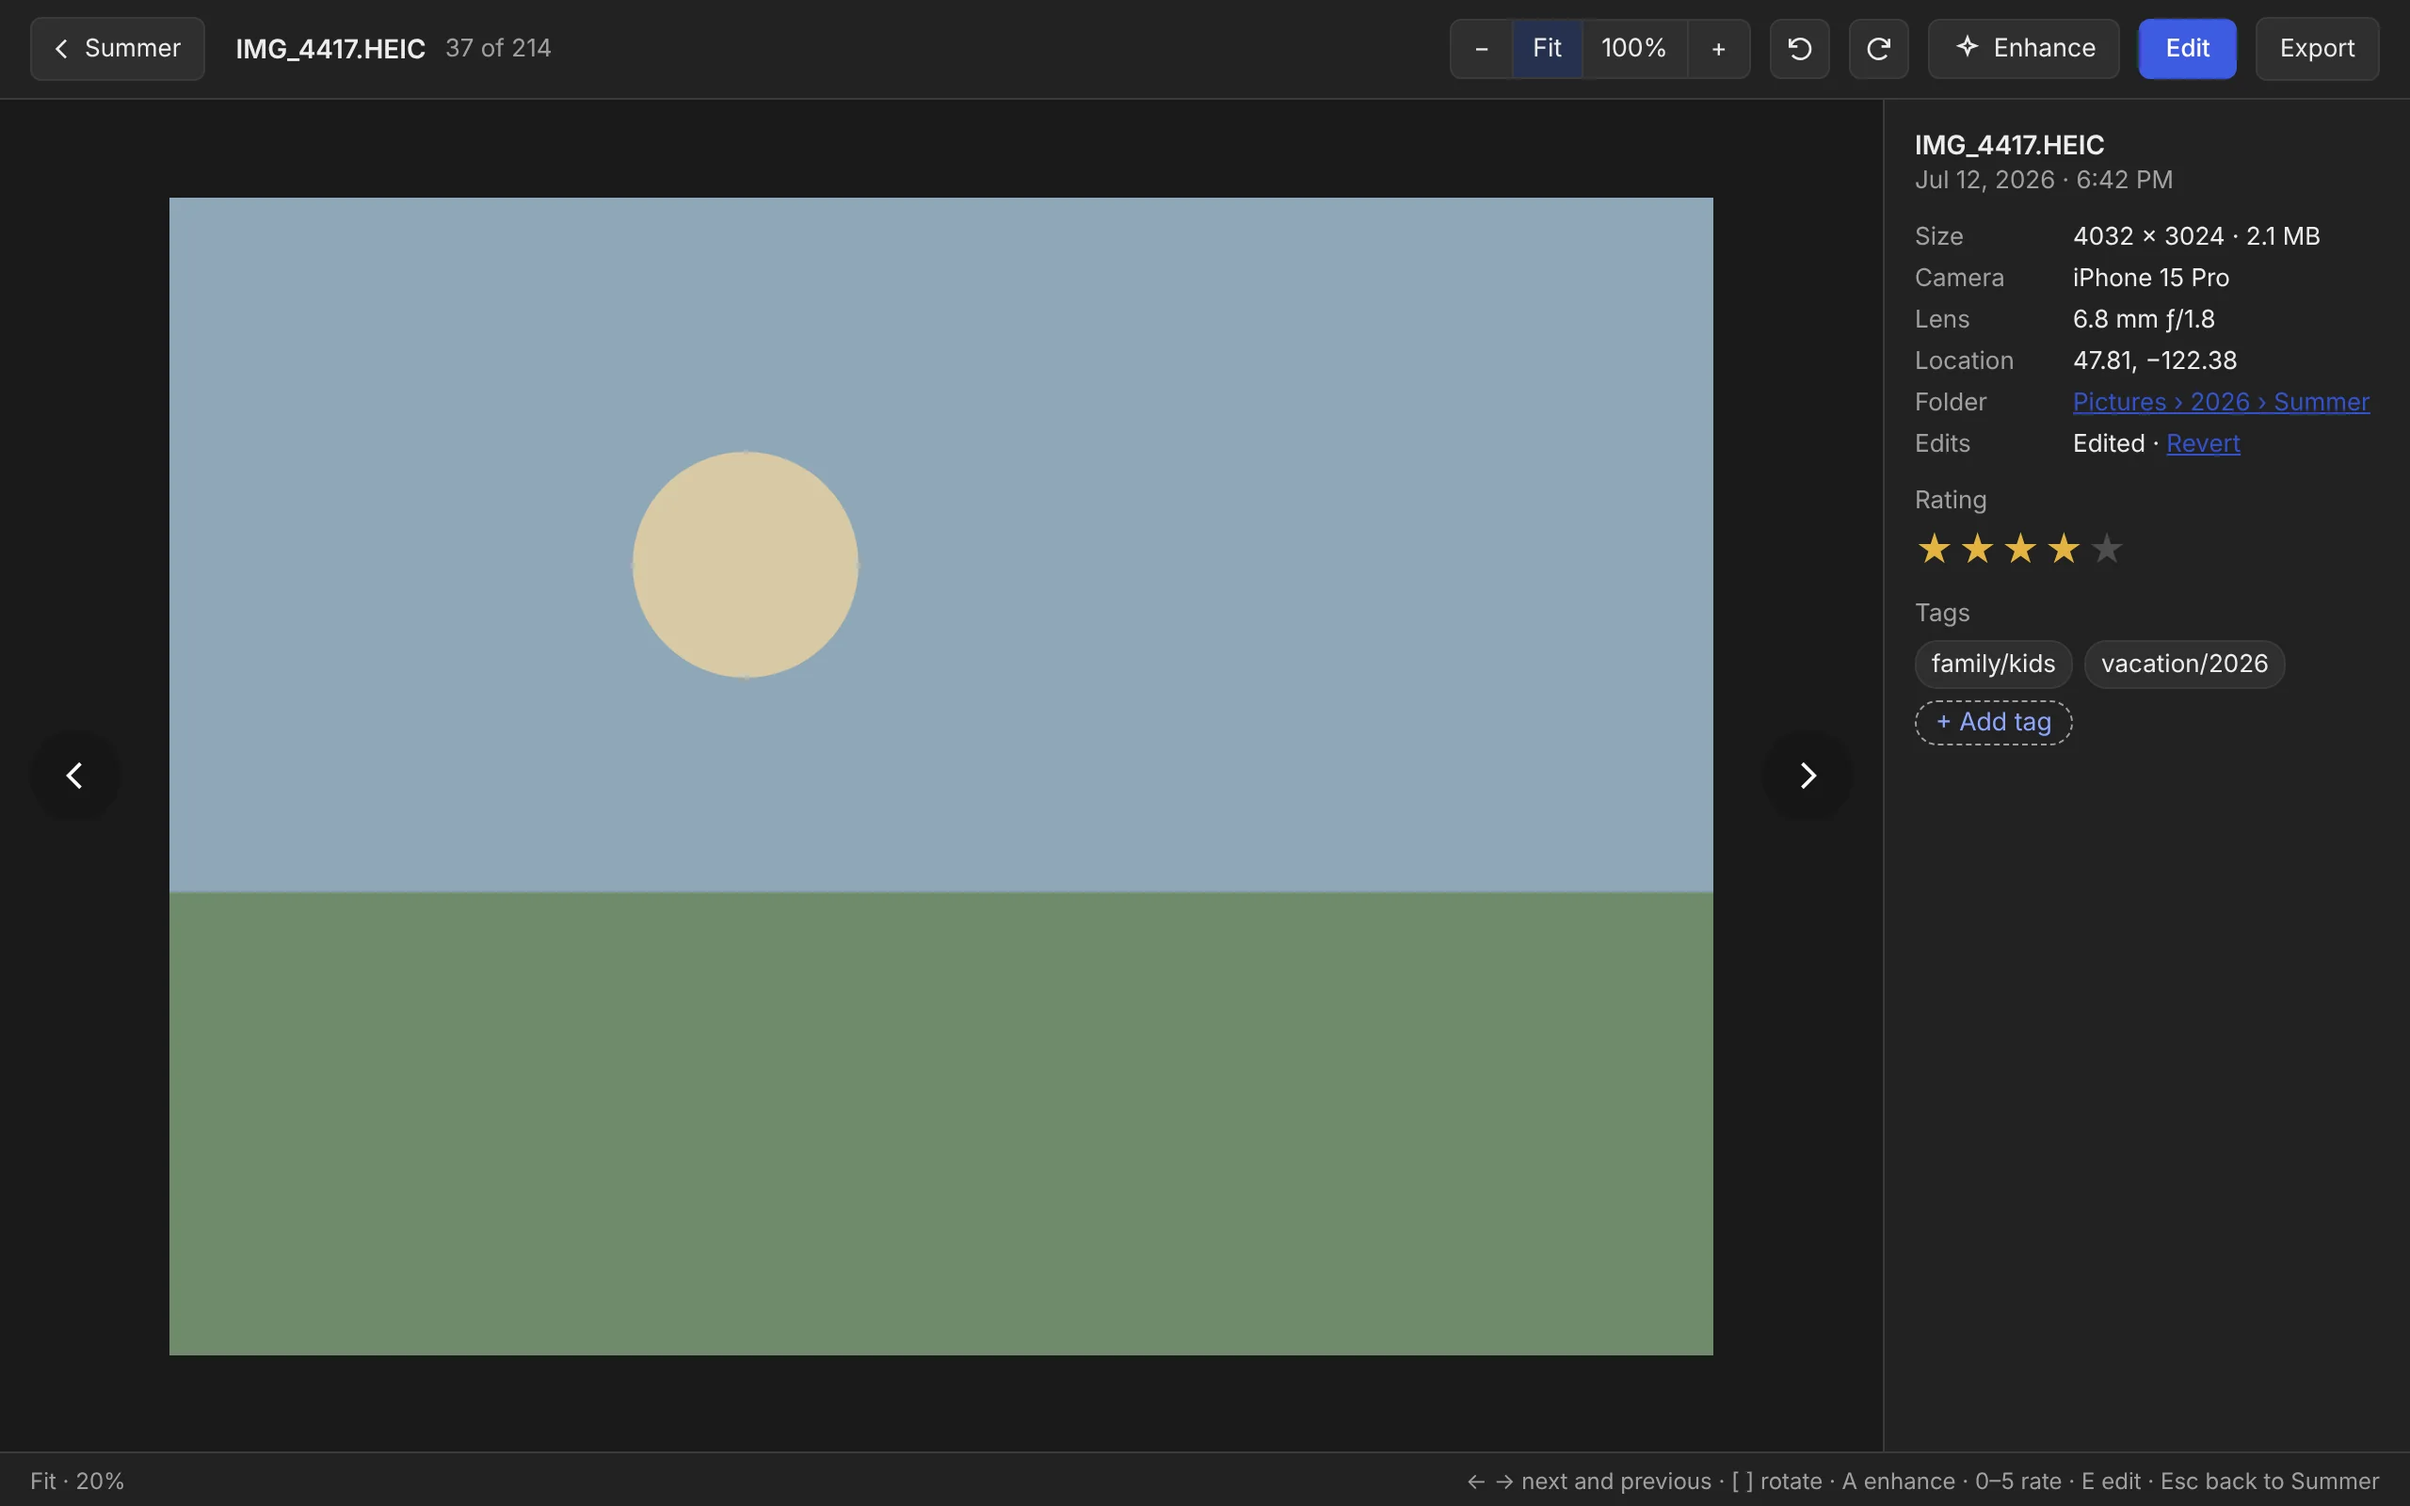
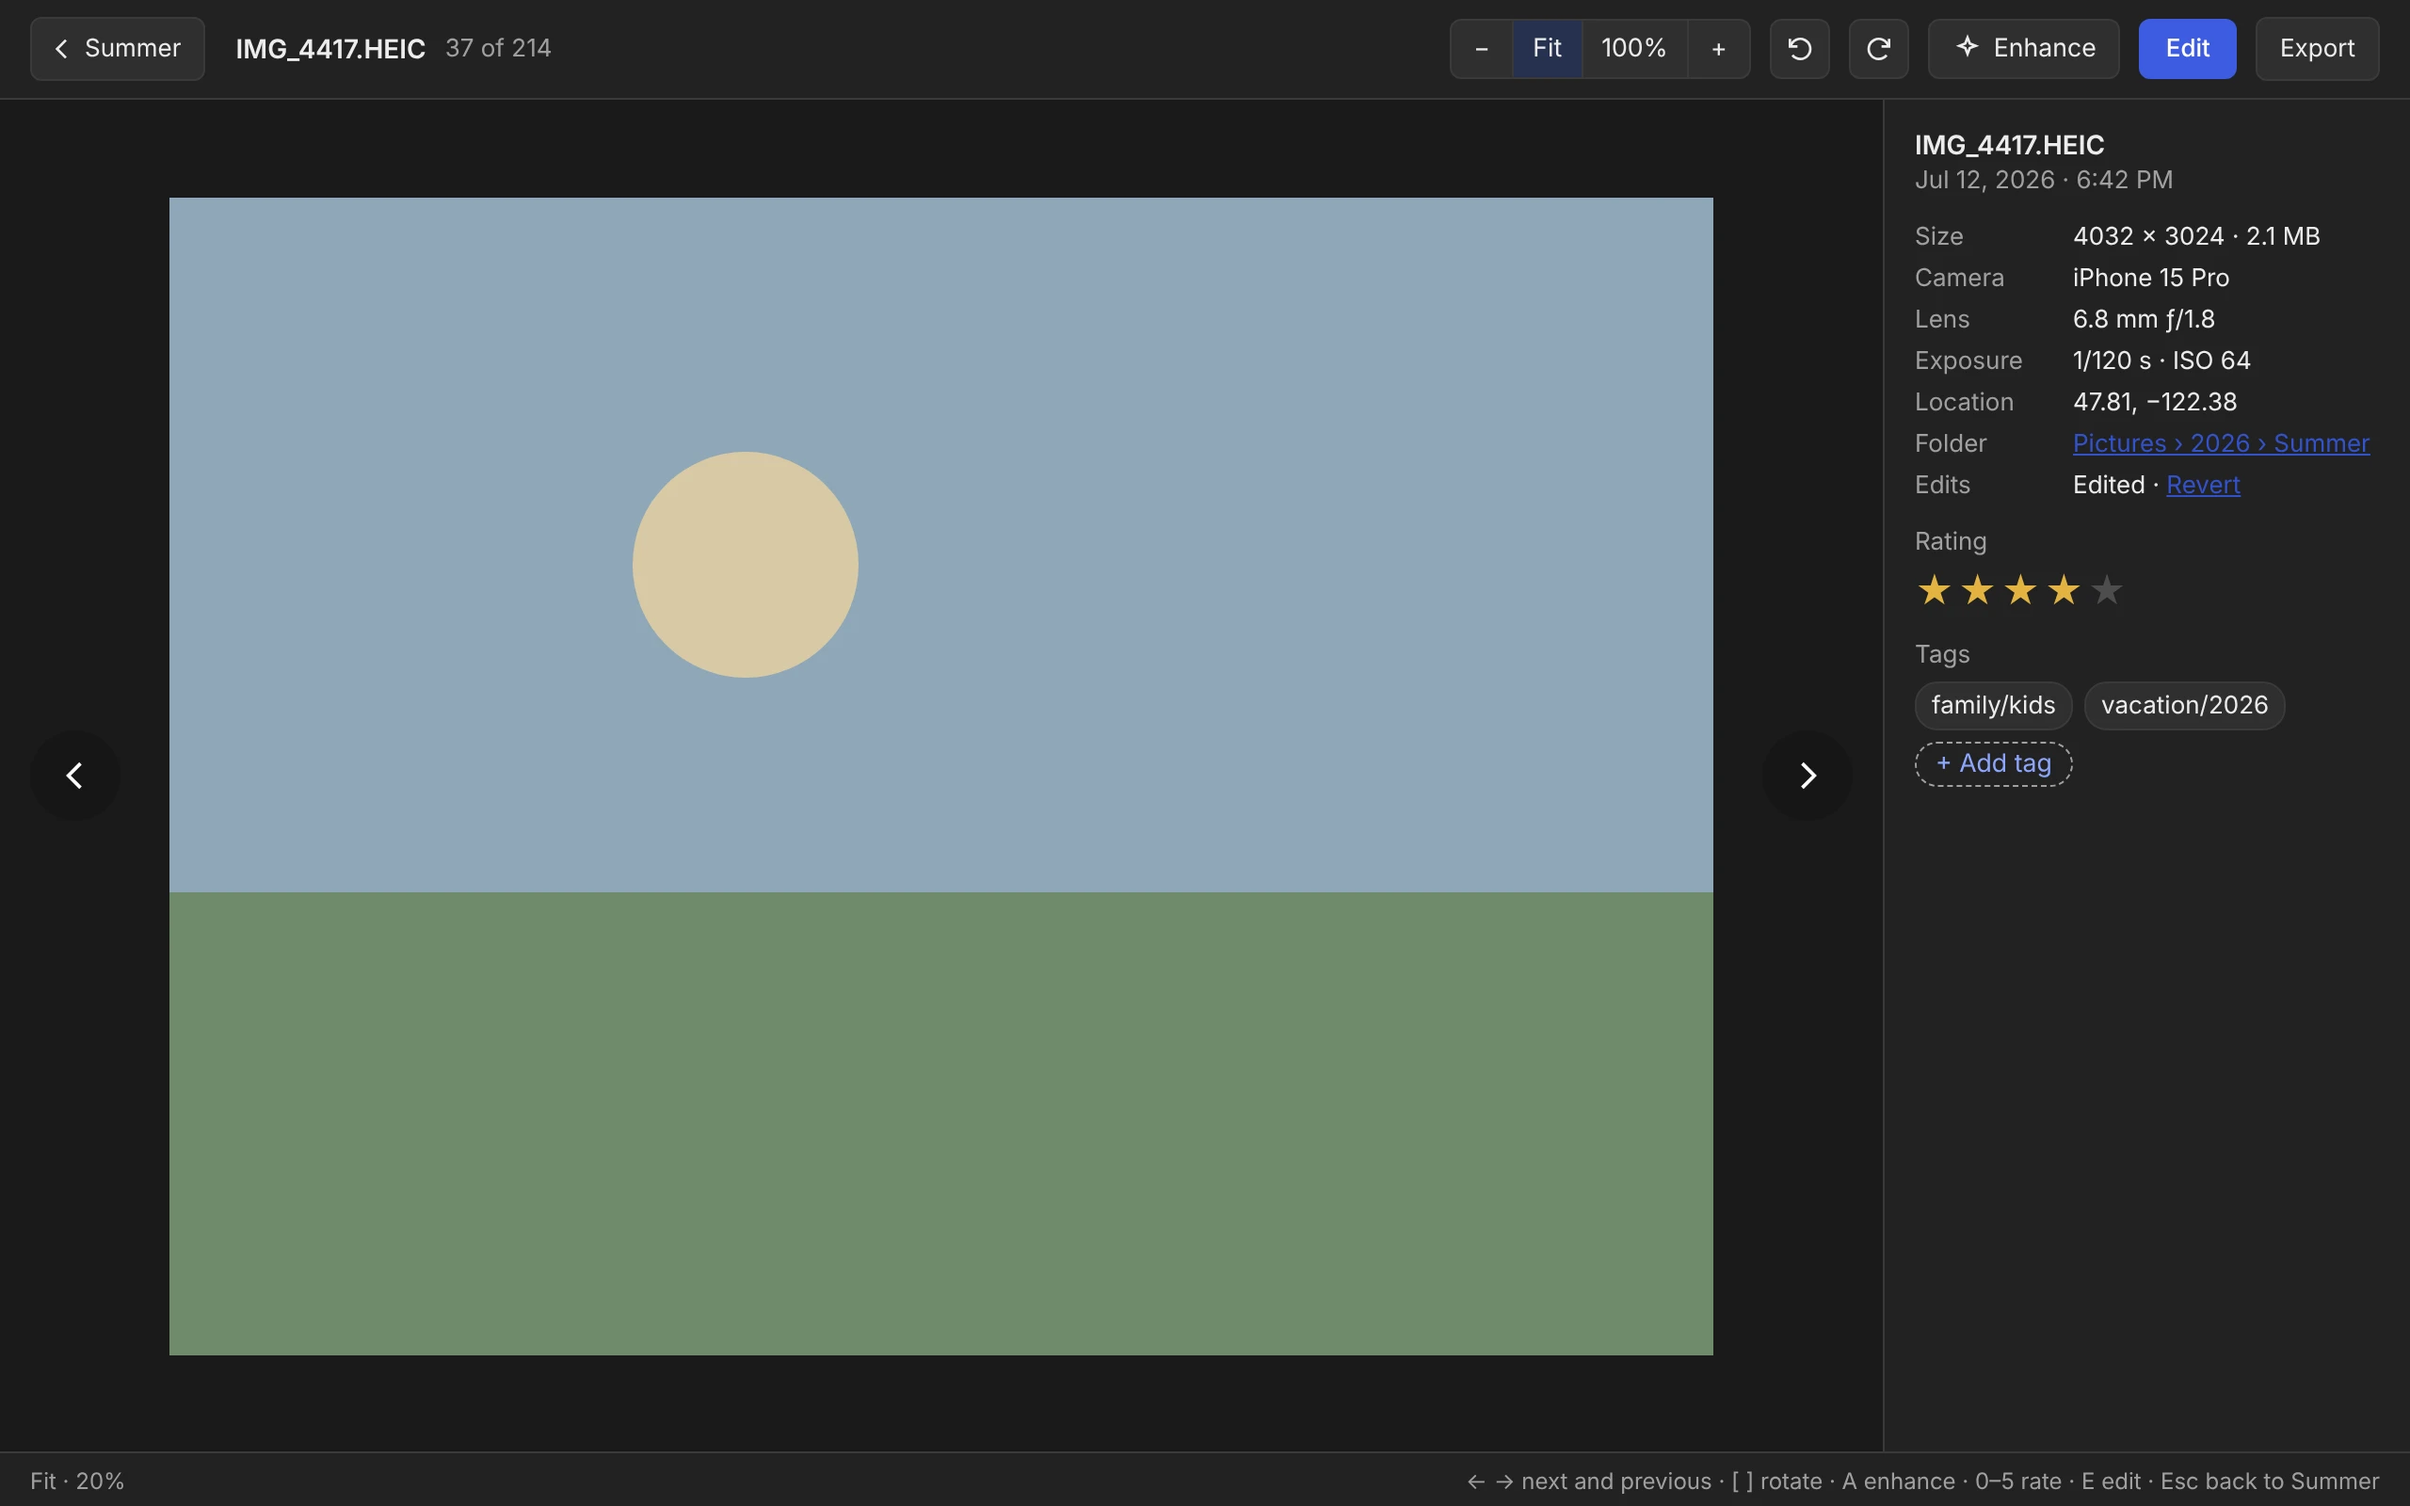
BRW-6: exposure settings, and date modified when there's no date taken
Follows #56. The functional spec's BRW-6 list gains exposure settings
(shutter speed and ISO, plus compensation when there was some) and date
modified for photos with no date taken; the decisions log records why the
rest of Explorer's and Finder's fields stay out. The Library and Viewer
mockups and wireframes show the Exposure row. Also corrects the date on
the Add folder note in wireframes.md to 2026-10-22.

Claude-Session: https://claude.ai/code/session_01S3MFyAFK74DFrLfWJvQiDx

Changed region(s): [[0.8125, 0.2188, 1.0, 0.3438], [0.7812, 0.3125, 0.9375, 0.5312]]

diff --git a/docs/functional-spec.md b/docs/functional-spec.md
@@ -1,6 +1,6 @@
 # Seura Photos — Functional Spec (v1)
 
-Status: approved · Last updated: 2026-10-17
+Status: approved · Last updated: 2026-10-22
 
 This spec defines what Seura Photos v1 does, as behaviors with testable acceptance criteria. It builds on the [product brief](product-brief.md). Screen layout comes in the design phase, and the edit file format has its own specification in [seura-photos/edit-format](https://github.com/seura-photos/edit-format). Each requirement has an ID (LIB-1, EDT-3) so tests, commits, and code can reference it.
 
@@ -31,7 +31,7 @@ Selecting a folder or tag shows its photos in a thumbnail grid; opening one show
 - **BRW-3 Thumbnail size.** Adjustable with a slider from 96 to 256 logical pixels per cell, 160 by default; the setting is remembered. Cached thumbnails are 512 pixels, sharp at the largest size on 2× screens (DSP-4).
 - **BRW-4 Selection.** Click, Ctrl/Cmd-click, Shift-click, and Select All, following platform conventions. The number selected is always visible.
 - **BRW-5 Viewer.** Double-click or Enter opens a photo full size. Arrow keys move to the next or previous photo in grid order. Zoom to fit, zoom to 100%, zoom in and out, and pan when zoomed. Esc returns to the grid at the same scroll position. A cloud-only photo downloads as LIB-9 describes. The Viewer shows the photo with its edits applied, like the thumbnails; comparing with the original is in the Editor (EDT-1).
-- **BRW-6 Photo info.** A panel, always visible in the Library and Viewer, shows file name, date taken, dimensions, file size, camera and lens, location as coordinates, tags, and rating.
+- **BRW-6 Photo info.** A panel, always visible in the Library and Viewer, shows file name, date taken, dimensions, file size, camera and lens, exposure settings (shutter speed and ISO, plus exposure compensation when there was some), location as coordinates, tags, and rating. A photo with no date taken, such as a scan or a screenshot, shows its date modified instead, labeled as such.
 - **BRW-7 Correct display.** Orientation stored in the photo's metadata is honored, and embedded color profiles are applied, so iPhone photos show their true colors.
 - **BRW-8 Open elsewhere.** Show in Explorer or Finder, and open in the system's default app.
 - **BRW-9 Delete.** On explicit request and after confirmation, moves the selected photos and their edit files to the system Recycle Bin or Trash. Never permanent deletion. Not available in read-only folders.
@@ -207,6 +207,7 @@ The app should feel at home on each platform and be usable without a mouse or wi
 | Reference hardware | A mid-range laptop from about 2020 with integrated graphics, on each platform. Until the M7 beta, measured on faster machines, aiming for about half the target time (Nevada, 2026-10-20). |
 | Translations | English only in v1, built to be translated: one shared catalog format with plurals (ACC-5), regional formats from the operating system (ACC-6), room for longer text (ACC-7), and Unicode-aware tag matching (TAG-2). Translations, a language setting, and right-to-left languages come after v1 (product brief, "Not in v1"). Raised by Nevada, 2026-10-20. |
 | Downloading cloud-only photos | An indicator and the photo's size, no progress bar and no cancel button: measured on OneDrive on both platforms, neither system reports download progress to the reading app, and abandoning a download finishes it on Windows but stops it on the Mac. Moving on is how a download is abandoned; Seura only stops waiting (LIB-9). Found by Claude Code and Nevada, 2026-10-22; Nevada's proposal. |
+| What photo info shows | BRW-6's fields plus exposure settings, and date modified only when there's no date taken. Compared against Explorer's details pane and Finder's Get Info (about twenty items between them); the rest stays out to keep the panel short, with the reasons in the [journal](journal/2026-10-23-info-panel-fields.md). Nevada's review, Claude's recommendation, 2026-10-22. |
 | Where Seura keeps its own files | A visible `Seura Photos` folder in the home folder, not Documents, because Documents is often cloud-synced and neither the cache nor the settings should sync (decision 0015). Raised by Nevada, 2026-10-20. |
 | Sort order and thumbnail size | One app-wide sort order (BRW-2); thumbnails 96 to 256 px, default 160 (BRW-3). |
 | HEIC and JPEG pairs | Both shown, as separate files (LIB-8); may be revisited after 1.0. |

diff --git a/docs/ux/wireframes.md b/docs/ux/wireframes.md
@@ -9,8 +9,8 @@ All screens were drawn at 1280×800 logical pixels, close to the 1280×720 minim
 ## Shared structure
 
 - **Toolbar** (52 px) across the top of every view; **status bar** (28 px) at the bottom of the Library and Viewer.
-- **Sidebar** (232 px; 260 px at 1920 wide): FOLDERS tree, then TAGS tree, each row with a count. The FOLDERS heading has an Add folder button (+, 32 px, accent color) at its right and stays in view while the tree scrolls; the last action's one-line notice (for example "Added. Scanning for photos…") shows under it. A link at the end of the tree scrolled out of sight with many folders, and a button pinned to the bottom of the sidebar would end up below TAGS in M3. TAGS can follow the same pattern if tags get an add action (Nevada, 2026-10-23).
-- **Info panel** (280 px; 320 px at 1920 wide), always shown in Library and Viewer: preview, file name, date, size, camera, lens, location, edit state with Revert, rating stars, tag chips with Add tag.
+- **Sidebar** (232 px; 260 px at 1920 wide): FOLDERS tree, then TAGS tree, each row with a count. The FOLDERS heading has an Add folder button (+, 32 px, accent color) at its right and stays in view while the tree scrolls; the last action's one-line notice (for example "Added. Scanning for photos…") shows under it. A link at the end of the tree scrolled out of sight with many folders, and a button pinned to the bottom of the sidebar would end up below TAGS in M3. TAGS can follow the same pattern if tags get an add action (Nevada, 2026-10-22).
+- **Info panel** (280 px; 320 px at 1920 wide), always shown in Library and Viewer: preview, file name, date (date modified when there's no date taken), size, camera, lens, exposure, location, edit state with Revert, rating stars, tag chips with Add tag.
 - Dark surround (#2b2d30 in the wireframes) behind photos in the Viewer, Editor, and Review, so photos aren't judged against a bright frame.
 - Control sizes are fixed across window sizes; only photo areas and panel widths grow.
 

diff --git a/docs/ux/mockups/README.md b/docs/ux/mockups/README.md
@@ -1,6 +1,6 @@
 # Mockups
 
-Images of the screens on the design canvas, for checking each slice against. Rendered from the canvas on 2026-10-20, with the Library images refreshed on 2026-10-23 (Add folder in the FOLDERS heading); the canvas is the source, and these are refreshed when it changes. The photos are placeholders.
+Images of the screens on the design canvas, for checking each slice against. Rendered from the canvas on 2026-10-20, with the Library and Viewer images refreshed on 2026-10-22 (Add folder in the FOLDERS heading; the Exposure row in photo info); the canvas is the source, and these are refreshed when it changes. The photos are placeholders.
 
 **Styled** (visual design, `docs/visual-design.md`), each in light and dark:
 
